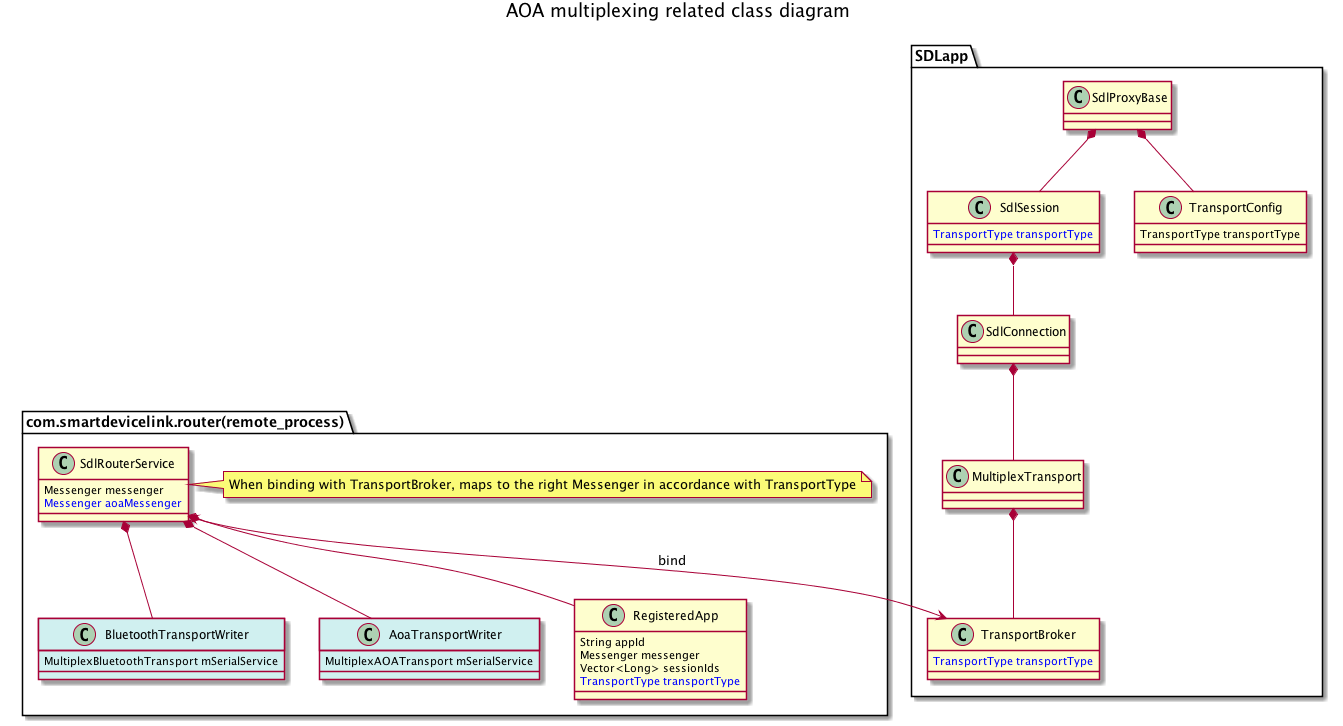
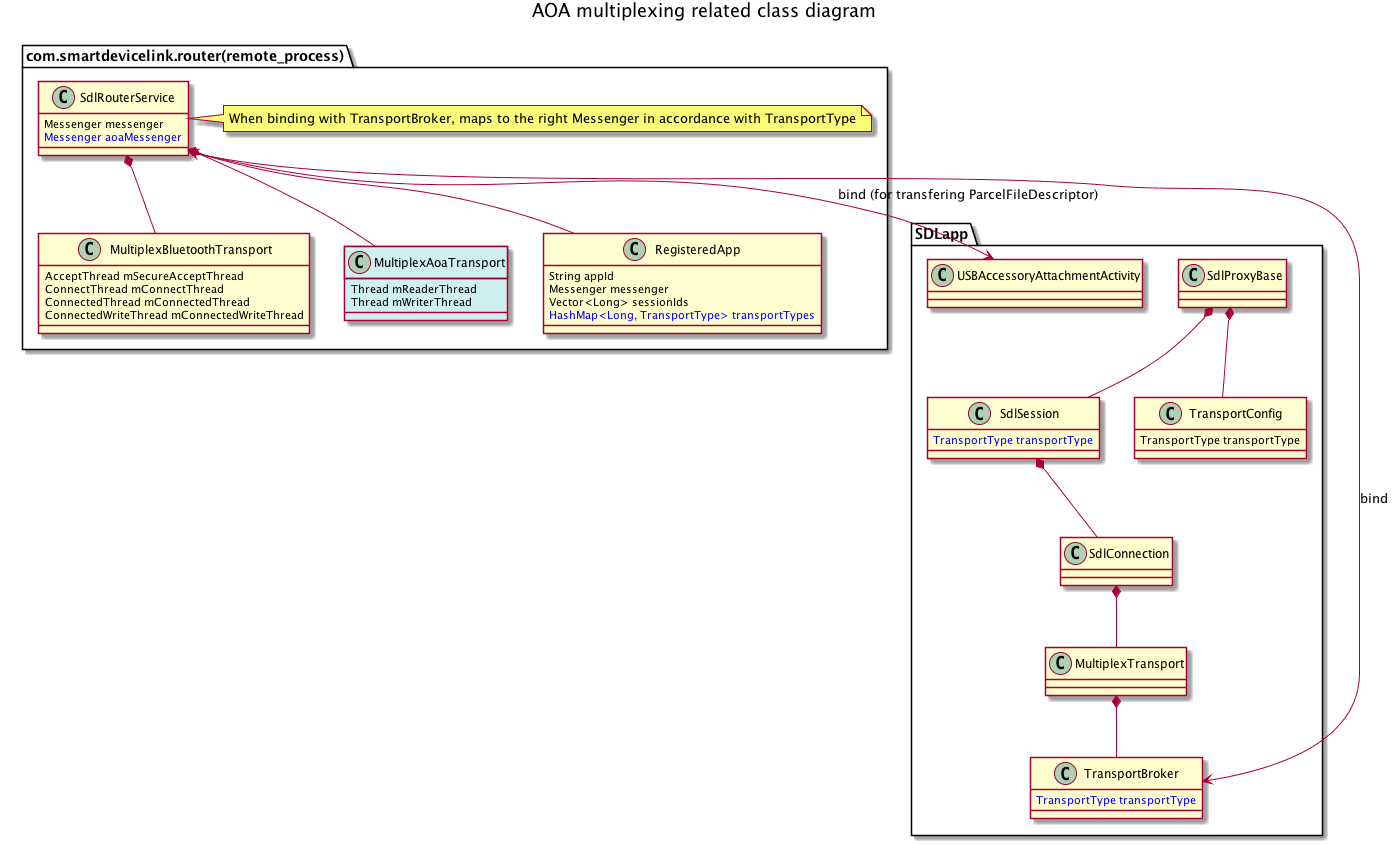
Revised proposal of "AOA multiplexing similar to Android BT/SPP multiplexing" (#450)
* Revising AOA multiplexing proposal based on some comments from Livio.

* renamed the typo in filename.

* Add some description about what is possible permanent routerservice issue is.

* Update some description of possible permanent router service issue.

* Update the section "The app that has actual UsbAccessory's permission sends ParcelFileDescriptos to active SdlRouterService". Fix the description that has some logic flaw.

* Fixed a typo in a code snnipet.

* Fix yet another typo in a code snnipet.

diff --git a/proposals/0095-AOA-multiplexing.md b/proposals/0095-AOA-multiplexing.md
@@ -24,8 +24,10 @@ Currently, SDL app chooses the transport (either Bluetooth multiplexing, legacy 
 - MultiplexTrannsportConfig is extended to be aware of TransportType. A new TransportType "MULTIPLEX_AOA" is supported in addition to "MULTIPLEX".
 - SDL application specifies TransportType when configuring MultiplexTransportConfig.
 - SdlRouterService internally holds separate Handlers according to the TransportType, and returns the right Handler when binding to the service, so that IPC channel is isolated per TransportType.
-- SdlRouterService recognizes the expected TransportType when registering the app to router. SdlRouterService internally recognizes the expected TransportType per appId.
-- SdlRouterService uses (newly added) BluetoothTransportWriter or AoaTransportWriter depending on TransportType
+- SdlRouterService recognizes the expected TransportType when registering the app to router. SdlRouterService internally recognizes the expected TransportType per session.
+- Currently RegisteredApp uses the same TransportType for all sessions, but this will be extended by upcoming simultaneous multiple transports support. RegisteredApp will be extended to support multiple transports per session.
+- SdlRouterService uses either MultiplexBluetoothTransport or (newly added) MultiplexAoaTransport depending on TransportType.
+- In order to share the UsbAccessory with multiple applications, the app that actually has the USB accessory's permission will send ParcelFileDescriptor to the active router service. If no active router is running, the local app launches router service for AOA transport.
 - The affected component is Android proxy only. No change is required for SDL Core.
  
 The affected classes in Android Proxy are shown below:
@@ -99,7 +101,8 @@ and extends TransportBroker to specify (newly added) action (== BIND_REQUEST_TYP
 ```
 
 ### SdlRouterService recognizes expected TransportType
-Extends SdlRouterService so that internal class (RegisteredApp) is aware of TransportType:
+Extends SdlRouterService so that internal class (RegisteredApp) is aware of TransportType.
+Because of upcoming support of simultaneous multiple transports, RegisteredApp supports TransportType per session:
 ```java
 	class RegisteredApp {
 		/**
@@ -110,7 +113,8 @@ Extends SdlRouterService so that internal class (RegisteredApp) is aware of Tran
 		 */
 		public RegisteredApp(String appId, Messenger messenger, TransportType theType){
 		    ...
-			transportType = theType;
+			transportTypes = new HashMap<>();
+			transportTypes.put(0L, theType); // default session maps to the given (primary) TransportType
 		}
 	}
 	
@@ -124,52 +128,29 @@ Extends SdlRouterService so that internal class (RegisteredApp) is aware of Tran
 	}
 ```
 
-### SdlRouterService uses (newly added) ITransportWriter to write into actual transport
-Introduces BluetoothTransportWriter and AoaTransportWriter class that utilize actual transports to send data to SDL Core:
-```java
-public interface ITransportWriter {
-	boolean writeBytesToTransport(Bundle bundle);
-	boolean manuallyWriteBytes(byte[] bytes, int offset, int count);
-}
-
-// BluetoothTransportWriter internally utilizes MultiplexBluetoothTransport
-public class BluetoothTransportWriter implements ITransportWriter {
-    private MultiplexBluetoothTransport mSerialService = null;
-    ...
-    public boolean writeBytesToTransport(Bundle bundle){
-        ...
-    }
-    
-    public boolean manuallyWriteBytes(byte[] bytes, int offset, int count){
-        ...
-    }
-}
-
-// AoaTransportWriter internally utilizes (new) MultiplexAOATransport
-public class AoaTransportWriter implements ITransportWriter {
-    private MultiplexAOATransport mSerialService = null;
-
-    public boolean writeBytesToTransport(Bundle bundle){
-        ...
-    }
-    
-    public boolean manuallyWriteBytes(byte[] bytes, int offset, int count){
-        ...
-    }
-}
-```
-
-SdlRouterService selects either BluetoothTransportWriter or AoaTransportWriter according to the TransportType of the RegisteredApp instance:
+### SdlRouterService uses either MultiplexBluetoothTransport or MultiplexAoaTransport depending on the TransportType
 ```java
 public class SdlRouterService extends Service {
     ...
-    // TransportWriters -- for now BT and USB.
-	private BluetoothTransportWriter bluetoothTransportWriter;
-	private AoaTransportWriter aoaTransportWriter;
+    // underlying transport depending on the TransportType.
+	private MultiplexBluetoothTransport bluetoothTransport;
+	private MultiplexAoaTransport aoaTransport;
     ...
-    // utilizes the TransportWriter in accordance with the TransportType for each registered app.
 }
 ```
+
+### The app that has actual UsbAccessory's permission sends ParcelFileDescriptor to active SdlRouterService
+We discussed about a potential issue where multiple SDL applications have the same accessory_filter settings.
+
+When a user plugs in their device to an AOA connection, they are prompted with selection dialog. The dialog contains all apps that support the currently connected accessory. In this dialog there is also an option to always open a specific app for that accessory. We basically assumed the app that receives AOA intent gets the accessory permission, and then the app works as the router for AOA transport. if the user picks an app to always receive the AOA intent and it propagates the router service, all multiplexed connections will go through that apps router service regardless if there is a newer router service present. If by chance that is not a trusted router service, no other apps will ever connect until the user clears the flag.
+
+The underlying issue is that the app user chooses to give the accessory permission is not necessarily the trusted router service.
+To solve the issue, we take the approach where sending the USB device's descriptor (ParcelFileDescriptor) from user granted app to active router service.
+The following sequence diagram shows how it works:
+
+![sequence dialog for possible permanent routerservice issue](../assets/proposals/0095-AOA-multiplexing/0095-aoa-possible-permanent-routerservice-solution.png)
+
+**Fig. 2: Sequence diagram for possible permanent RouterService solution**
 
 ## Potential downsides
 
